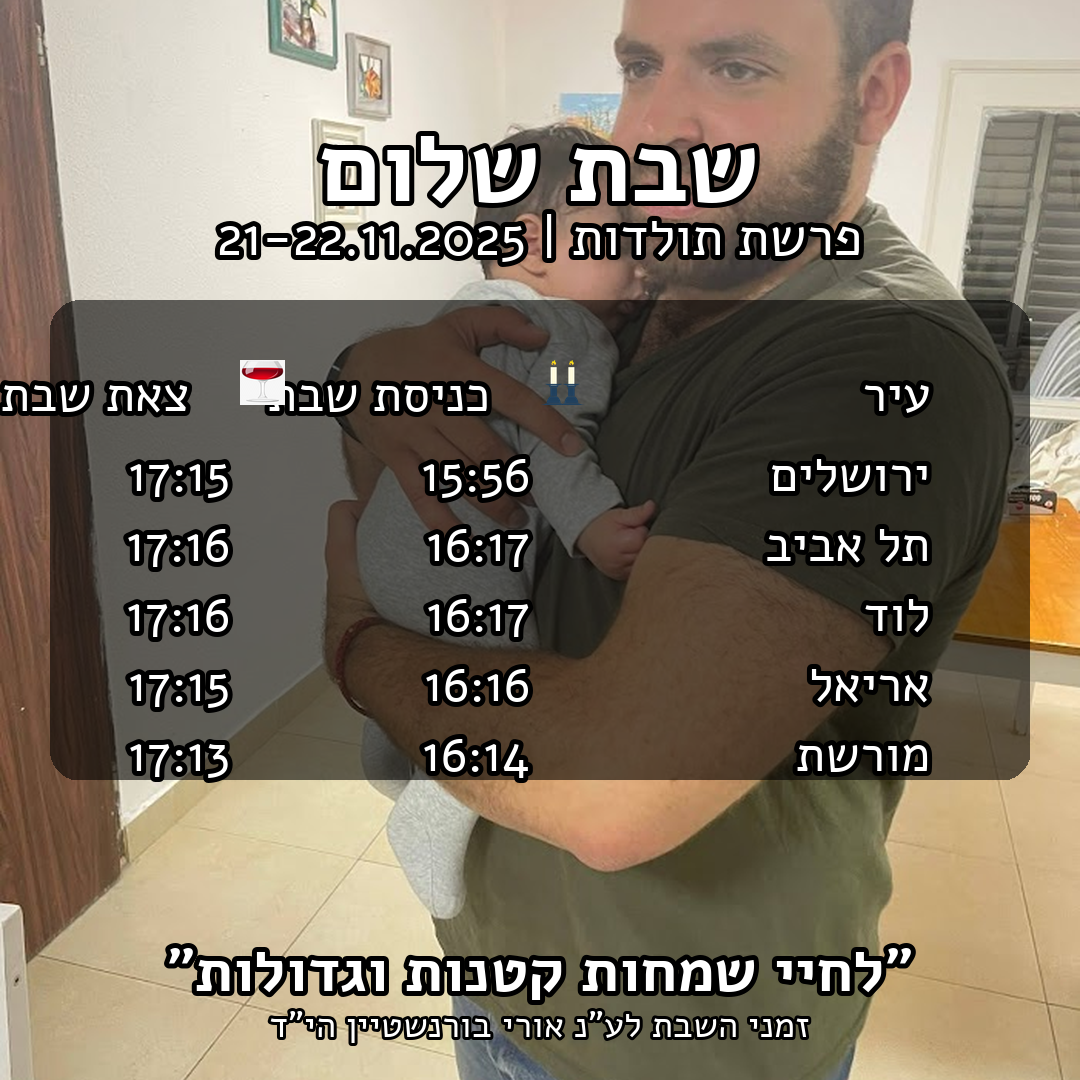
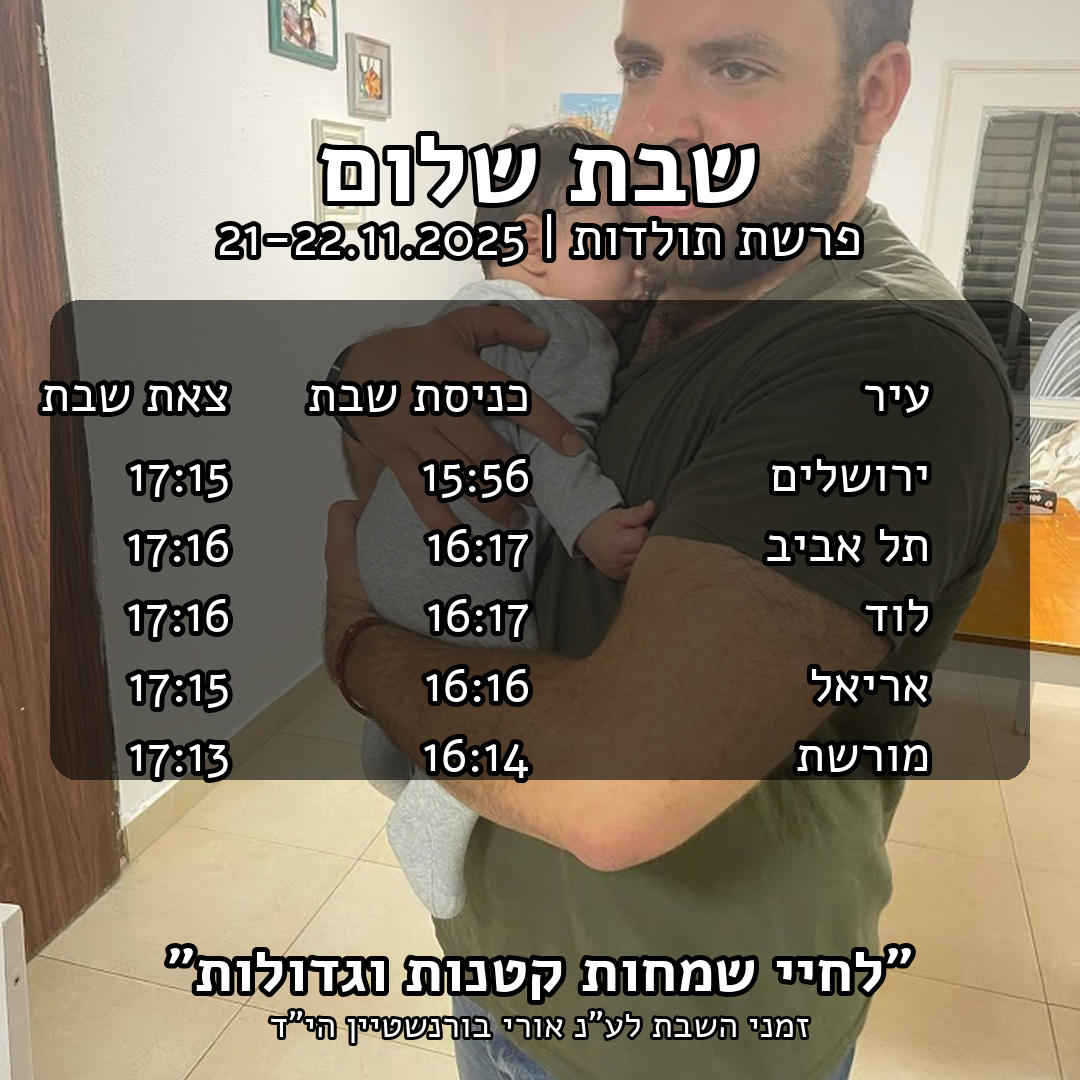
🔙 חזרה לעיצוב פשוט ונקי: ביטול האייקונים
החלטה נכונה - חזרה לפשטות:
❌ הסרת כל האייקונים שסיבכו את העיצוב
❌ מחיקת תיקיית icons/ ופונקציות האייקונים
✅ חזרה לטקסט פשוט ונקי

מה נשמר:
✅ פינות עגולות ברקע השחור (נראה מודרני)
✅ כותרות פשוטות: 'כניסת שבת', 'צאת שבת', 'הדלקת נרות', 'צאת החג'
✅ כל הפונקציונליות המושלמת (רצפים, זמנים, הלכה)
✅ פורמט תאריכים קומפקטי

התוצאה:
- עיצוב נקי ומקצועי
- קריא ובהיר
- לא מסובך
- עובד מושלם

לפעמים פשוט זה הכי טוב! 🎯

Changed region(s): [[0.0, 0.3361, 0.55, 0.3972]]

diff --git a/make_shabbat_posts.py b/make_shabbat_posts.py
@@ -81,26 +81,7 @@ def load_font(size: int, bold=False) -> ImageFont.FreeTypeFont:
                 continue
     return ImageFont.load_default()
 
-def load_and_resize_icon(icon_path: str, size: int) -> Image.Image:
-    """טוען ומשנה גודל של אייקון"""
-    try:
-        icon = Image.open(icon_path)
-        # המרה ל-RGBA אם צריך (לתמיכה בשקיפות)
-        if icon.mode != 'RGBA':
-            icon = icon.convert('RGBA')
-        # שינוי גודל תוך שמירה על יחס גובה-רוחב
-        icon = icon.resize((size, size), Image.Resampling.LANCZOS)
-        return icon
-    except Exception as e:
-        print(f"שגיאה בטעינת אייקון {icon_path}: {e}")
-        return None
 
-def paste_icon(img: Image.Image, icon_path: str, x: int, y: int, size: int):
-    """מדביק אייקון על התמונה"""
-    icon = load_and_resize_icon(icon_path, size)
-    if icon:
-        # מדביק עם שקיפות
-        img.paste(icon, (x, y), icon)
 
 # ========= DATA FROM JEWCAL =========
 def find_event_sequence(start_date: date) -> tuple[date, date, str, str]:
@@ -593,25 +574,12 @@ def compose_poster(bg_img: Image.Image, week_info: dict, all_cities_rows: list, 
 
     draw_text_with_stroke(draw, (col_city_x, y), "עיר", row_font, fill, stroke, stroke_w, anchor="ra", rtl=True)
 
-    # גודל האייקונים
-    icon_size = row_font.size - 5
-
     if event_type == "yomtov":
-        # הדבקת אייקון נרות
-        paste_icon(img, "icons/candles.png", col_candle_x + 10, y, icon_size)
-        draw_text_with_stroke(draw, (col_candle_x - 40, y), "הדלקת נרות", row_font, fill, stroke, stroke_w, anchor="ra", rtl=True)
-
-        # הדבקת אייקון כוס יין
-        paste_icon(img, "icons/wine_glass.png", col_hav_x + 10, y, icon_size)
-        draw_text_with_stroke(draw, (col_hav_x - 40, y), "צאת החג", row_font, fill, stroke, stroke_w, anchor="ra", rtl=True)
+        draw_text_with_stroke(draw, (col_candle_x, y), "הדלקת נרות", row_font, fill, stroke, stroke_w, anchor="ra", rtl=True)
+        draw_text_with_stroke(draw, (col_hav_x, y), "צאת החג", row_font, fill, stroke, stroke_w, anchor="ra", rtl=True)
     else:
-        # הדבקת אייקון נרות
-        paste_icon(img, "icons/candles.png", col_candle_x + 10, y, icon_size)
-        draw_text_with_stroke(draw, (col_candle_x - 40, y), "כניסת שבת", row_font, fill, stroke, stroke_w, anchor="ra", rtl=True)
-
-        # הדבקת אייקון כוס יין
-        paste_icon(img, "icons/wine_glass.png", col_hav_x + 10, y, icon_size)
-        draw_text_with_stroke(draw, (col_hav_x - 40, y), "צאת שבת", row_font, fill, stroke, stroke_w, anchor="ra", rtl=True)
+        draw_text_with_stroke(draw, (col_candle_x, y), "כניסת שבת", row_font, fill, stroke, stroke_w, anchor="ra", rtl=True)
+        draw_text_with_stroke(draw, (col_hav_x, y), "צאת שבת", row_font, fill, stroke, stroke_w, anchor="ra", rtl=True)
     y += row_font.size + 30
 
     for name, candle_hhmm, hav_hhmm in all_cities_rows:
